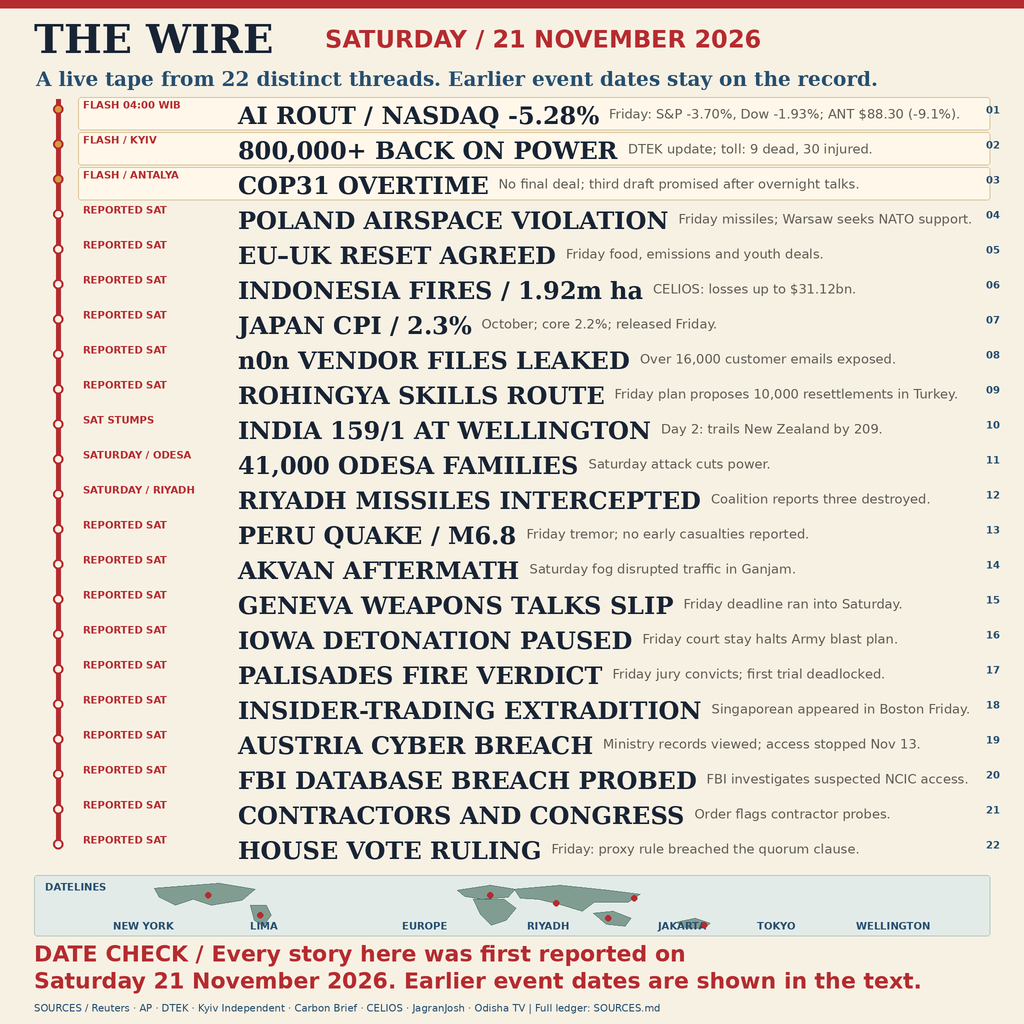
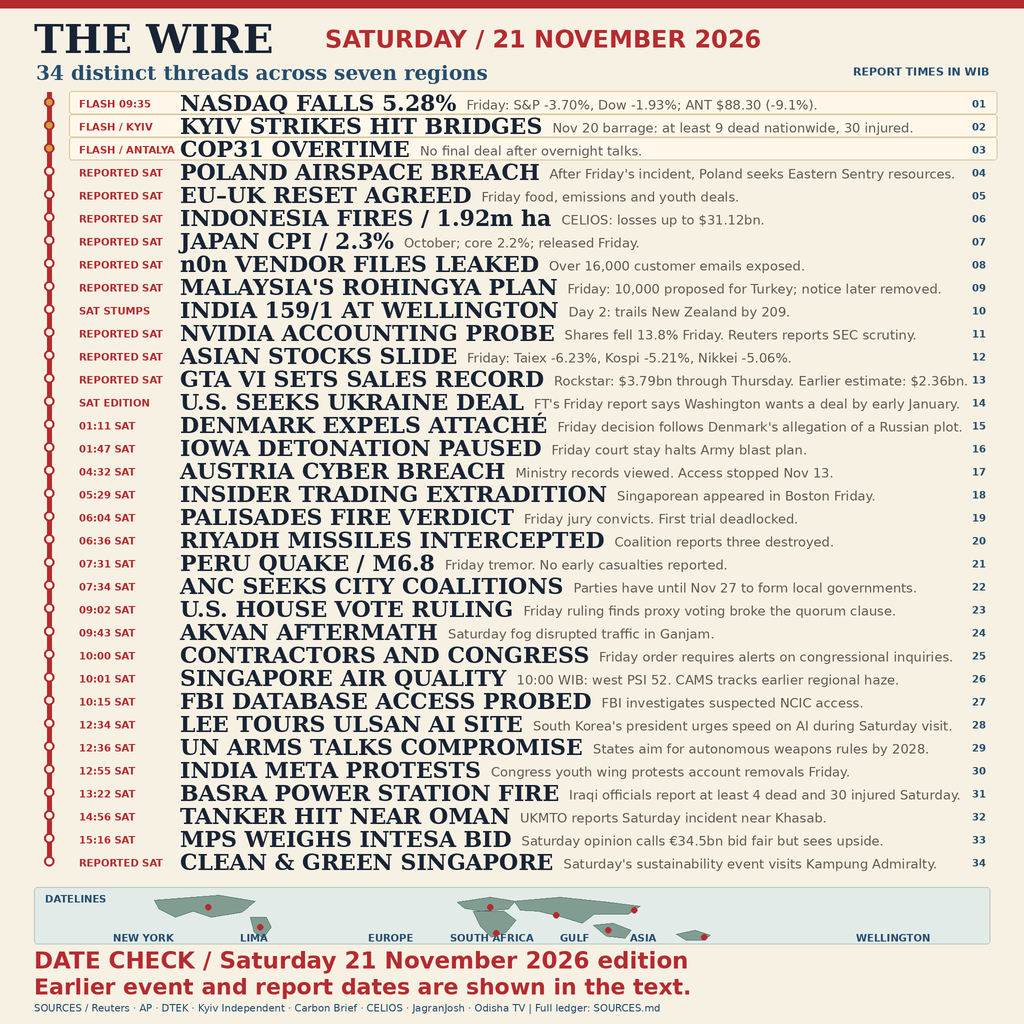
R5: expand THE WIRE to 34 distinct threads

diff --git a/render.py b/render.py
@@ -26,55 +26,68 @@ def main():
     d.rectangle((0,0,W*S,8*S),fill=red)
     t(d,(34,15),"THE WIRE",font("serifb",40),ink)
     t(d,(325,25),"SATURDAY / 21 NOVEMBER 2026",font("sansb",24),red)
-    t(d,(36,67),"A live tape from 22 distinct threads. Earlier event dates stay on the record.",font("serifb",20),blue)
+    t(d,(36,61),"34 distinct threads across seven regions",font("serifb",20),blue)
+    t(d,(989,65),"REPORT TIMES IN WIB",font("sansb",11),blue,anchor="ra")
 
     stories=[
-        ("FLASH 04:00 WIB","AI ROUT / NASDAQ -5.28%","Friday: S&P -3.70%, Dow -1.93%; ANT $88.30 (-9.1%).","Reuters / AP"),
-        ("FLASH / KYIV","800,000+ BACK ON POWER","DTEK update; toll: 9 dead, 30 injured.","DTEK / Kyiv Independent"),
-        ("FLASH / ANTALYA","COP31 OVERTIME","No final deal; third draft promised after overnight talks.","AP / Carbon Brief"),
-        ("REPORTED SAT","POLAND AIRSPACE VIOLATION","Friday missiles; Warsaw seeks NATO support.","AP / NATO"),
+        ("FLASH 09:35","NASDAQ FALLS 5.28%","Friday: S&P -3.70%, Dow -1.93%; ANT $88.30 (-9.1%).","Reuters / AP"),
+        ("FLASH / KYIV","KYIV STRIKES HIT BRIDGES","Nov 20 barrage: at least 9 dead nationwide, 30 injured.","Kyiv Independent"),
+        ("FLASH / ANTALYA","COP31 OVERTIME","No final deal after overnight talks.","AP / Carbon Brief"),
+        ("REPORTED SAT","POLAND AIRSPACE BREACH","After Friday's incident, Poland seeks Eastern Sentry resources.","AP / NATO"),
         ("REPORTED SAT","EU–UK RESET AGREED","Friday food, emissions and youth deals.","Reuters / Euronext"),
         ("REPORTED SAT","INDONESIA FIRES / 1.92m ha","CELIOS: losses up to $31.12bn.","CELIOS"),
         ("REPORTED SAT","JAPAN CPI / 2.3%","October; core 2.2%; released Friday.","Reuters"),
         ("REPORTED SAT","n0n VENDOR FILES LEAKED","Over 16,000 customer emails exposed.","Reuters"),
-        ("REPORTED SAT","ROHINGYA SKILLS ROUTE","Friday plan proposes 10,000 resettlements in Turkey.","Reuters"),
+        ("REPORTED SAT","MALAYSIA'S ROHINGYA PLAN","Friday: 10,000 proposed for Turkey; notice later removed.","Reuters"),
         ("SAT STUMPS","INDIA 159/1 AT WELLINGTON","Day 2: trails New Zealand by 209.","JagranJosh"),
-        ("SATURDAY / ODESA","41,000 ODESA FAMILIES","Saturday attack cuts power.","DTEK"),
-        ("SATURDAY / RIYADH","RIYADH MISSILES INTERCEPTED","Coalition reports three destroyed.","Reuters"),
-        ("REPORTED SAT","PERU QUAKE / M6.8","Friday tremor; no early casualties reported.","Reuters / Peru Geophysical Institute"),
-        ("REPORTED SAT","AKVAN AFTERMATH","Saturday fog disrupted traffic in Ganjam.","Odisha TV"),
-        ("REPORTED SAT","GENEVA WEAPONS TALKS SLIP","Friday deadline ran into Saturday.","Reuters"),
-        ("REPORTED SAT","IOWA DETONATION PAUSED","Friday court stay halts Army blast plan.","AP"),
-        ("REPORTED SAT","PALISADES FIRE VERDICT","Friday jury convicts; first trial deadlocked.","AP"),
-        ("REPORTED SAT","INSIDER-TRADING EXTRADITION","Singaporean appeared in Boston Friday.","Reuters / US Department of Justice"),
-        ("REPORTED SAT","AUSTRIA CYBER BREACH","Ministry records viewed; access stopped Nov 13.","Reuters / Austrian Foreign Ministry"),
-        ("REPORTED SAT","FBI DATABASE BREACH PROBED","FBI investigates suspected NCIC access.","Reuters citing CNN"),
-        ("REPORTED SAT","CONTRACTORS AND CONGRESS","Order flags contractor probes.","Reuters / White House"),
-        ("REPORTED SAT","HOUSE VOTE RULING","Friday: proxy rule breached the quorum clause.","Reuters / Fifth Circuit")
+        ("REPORTED SAT","NVIDIA ACCOUNTING PROBE","Shares fell 13.8% Friday. Reuters reports SEC scrutiny.","Reuters"),
+        ("REPORTED SAT","ASIAN STOCKS SLIDE","Friday: Taiex -6.23%, Kospi -5.21%, Nikkei -5.06%.","Around Prague / CNBC"),
+        ("REPORTED SAT","GTA VI SETS SALES RECORD","Rockstar: $3.79bn through Thursday. Earlier estimate: $2.36bn.","AP / Sensor Tower"),
+        ("SAT EDITION","U.S. SEEKS UKRAINE DEAL","FT's Friday report says Washington wants a deal by early January.","Financial Times"),
+        ("01:11 SAT","DENMARK EXPELS ATTACHÉ","Friday decision follows Denmark's allegation of a Russian plot.","Reuters"),
+        ("01:47 SAT","IOWA DETONATION PAUSED","Friday court stay halts Army blast plan.","AP"),
+        ("04:32 SAT","AUSTRIA CYBER BREACH","Ministry records viewed. Access stopped Nov 13.","Reuters / Austrian Foreign Ministry"),
+        ("05:29 SAT","INSIDER TRADING EXTRADITION","Singaporean appeared in Boston Friday.","Reuters / US Department of Justice"),
+        ("06:04 SAT","PALISADES FIRE VERDICT","Friday jury convicts. First trial deadlocked.","AP"),
+        ("06:36 SAT","RIYADH MISSILES INTERCEPTED","Coalition reports three destroyed.","Reuters"),
+        ("07:31 SAT","PERU QUAKE / M6.8","Friday tremor. No early casualties reported.","Reuters / Peru Geophysical Institute"),
+        ("07:34 SAT","ANC SEEKS CITY COALITIONS","Parties have until Nov 27 to form local governments.","BBC"),
+        ("09:02 SAT","U.S. HOUSE VOTE RULING","Friday ruling finds proxy voting broke the quorum clause.","Reuters / Fifth Circuit"),
+        ("09:43 SAT","AKVAN AFTERMATH","Saturday fog disrupted traffic in Ganjam.","Odisha TV"),
+        ("10:00 SAT","CONTRACTORS AND CONGRESS","Friday order requires alerts on congressional inquiries.","Reuters / White House"),
+        ("10:01 SAT","SINGAPORE AIR QUALITY","10:00 WIB: west PSI 52. CAMS tracks earlier regional haze.","Singapore NEA / Copernicus"),
+        ("10:15 SAT","FBI DATABASE ACCESS PROBED","FBI investigates suspected NCIC access.","Reuters citing CNN"),
+        ("12:34 SAT","LEE TOURS ULSAN AI SITE","South Korea's president urges speed on AI during Saturday visit.","Reuters"),
+        ("12:36 SAT","UN ARMS TALKS COMPROMISE","States aim for autonomous weapons rules by 2028.","Reuters"),
+        ("12:55 SAT","INDIA META PROTESTS","Congress youth wing protests account removals Friday.","Reuters"),
+        ("13:22 SAT","BASRA POWER STATION FIRE","Iraqi officials report at least 4 dead and 30 injured Saturday.","Reuters"),
+        ("14:56 SAT","TANKER HIT NEAR OMAN","UKMTO reports Saturday incident near Khasab.","UKMTO / Reuters"),
+        ("15:16 SAT","MPS WEIGHS INTESA BID","Saturday opinion calls €34.5bn bid fair but sees upside.","Reuters / MPS"),
+        ("REPORTED SAT","CLEAN & GREEN SINGAPORE","Saturday's sustainability event visits Kampung Admiralty.","Singapore NEA"),
     ]
-    assert len(stories)==22
-    top=99; step=35; spine_x=58
+    assert len(stories)==34
+    top=92; step=23; spine_x=49
     d.line((spine_x*S,top*S,spine_x*S,(top+(len(stories)-1)*step+13)*S),fill=red,width=5*S)
     for i,(stamp,head,body,src) in enumerate(stories):
         y=top+i*step
-        if i<3: box(d,(78,y-2,990,y+31),(255,248,234),outline=(220,196,155),width=1,r=3)
+        if i<3: box(d,(69,y-1,997,y+22),(255,248,234),outline=(220,196,155),width=1,r=3)
         d.ellipse(((spine_x-5)*S,(y+5)*S,(spine_x+5)*S,(y+15)*S),fill=gold if i<3 else paper,outline=red,width=2*S)
-        t(d,(83,y),stamp,font("sansb",10),red)
-        hf=font("serifb",24)
+        t(d,(79,y+6),stamp,font("sansb",10),red)
+        hf=font("serifb",22)
         hbox=d.textbbox((0,0),head,font=hf)
         assert hbox[2] <= 742*S, (head,hbox[2]/S)
-        title_x=238
-        t(d,(title_x,y+2),head,hf,ink)
+        title_x=180
+        t(d,(title_x,y-2),head,hf,ink)
         bf=font("sans",13)
         bbox=d.textbbox((0,0),body,font=bf)
         body_x=title_x+hbox[2]/S+10
         # Keep a clear gutter for the right-edge tape index.
         assert body_x+bbox[2]/S <= 980, (head,body,body_x+bbox[2]/S)
-        t(d,(body_x,y+7),body,bf,muted)
-        t(d,(1000,y+5),str(i+1).zfill(2),font("sansb",10),blue,anchor="ra")
+        t(d,(body_x,y+5),body,bf,muted)
+        t(d,(986,y+6),str(i+1).zfill(2),font("sansb",10),blue,anchor="ra")
 
     # Small world map strip anchoring the wire's datelines.
-    y=875; map_x=34; box(d,(map_x,y,990,y+61),sea,outline=(185,201,195),width=1,r=3)
+    y=887; map_x=34; box(d,(map_x,y,990,y+57),sea,outline=(185,201,195),width=1,r=3)
     t(d,(45,y+6),"DATELINES",font("sansb",10),blue)
     land=(129,157,145); coast=(67,103,94)
     shapes=[[(120,13),(185,8),(221,14),(208,25),(177,30),(159,24),(141,30),(125,22)],
@@ -86,14 +99,14 @@ def main():
       [(642,47),(661,43),(676,48),(670,53),(652,53)]]
     for poly in shapes:
         d.polygon([((map_x+px)*S,(y+py)*S) for px,py in poly],fill=land,outline=coast)
-    labels=[("NEW YORK",113),("LIMA",250),("EUROPE",402),("RIYADH",527),("JAKARTA",658),("TOKYO",757),("WELLINGTON",856)]
+    labels=[("NEW YORK",113),("LIMA",240),("EUROPE",368),("SOUTH AFRICA",450),("GULF",560),("ASIA",630),("WELLINGTON",856)]
     for name,lx in labels:
         t(d,(lx,y+45),name,font("sansb",10),blue)
-    for px,py in [(174,20),(226,40),(456,20),(522,28),(574,43),(600,23),(670,50)]:
+    for px,py in [(174,20),(226,40),(456,20),(462,46),(522,28),(574,43),(600,23),(670,50)]:
         d.ellipse(((map_x+px-3)*S,(y+py-3)*S,(map_x+px+3)*S,(y+py+3)*S),fill=red)
 
-    t(d,(34,941),"DATE CHECK / Every story here was first reported on",font("sansb",22),red)
-    t(d,(34,968),"Saturday 21 November 2026. Earlier event dates are shown in the text.",font("sansb",22),red)
+    t(d,(34,947),"DATE CHECK / Saturday 21 November 2026 edition",font("sansb",23),red)
+    t(d,(34,974),"Earlier event and report dates are shown in the text.",font("sansb",22),red)
     t(d,(34,1002),"SOURCES / Reuters · AP · DTEK · Kyiv Independent · Carbon Brief · CELIOS · JagranJosh · Odisha TV | Full ledger: SOURCES.md",font("sans",10),blue)
     im.resize((W,H),Image.Resampling.LANCZOS).save("assets/entry.png",format="PNG",optimize=True)
 

diff --git a/SOURCES.md b/SOURCES.md
@@ -1,6 +1,6 @@
 # Sources ledger
 
-All stories are dated Saturday 21 November 2026 or first reported that day. The renderer uses the verified ledger in `news-image-20261121-analysis.md`.
+The 21 November 2026 edition includes Saturday reports and earlier developments. Timed stamps refer to the listed report or data release in Western Indonesian Time (UTC+7). The R5 notes below distinguish earlier source dates and superseded entries.
 
 1. Reuters/AP market wrap: Nasdaq 22,617.73, -5.28%; S&P 6,910.39, -3.70%; Dow 48,147.33, -1.93%.
 2. AP/Reuters market reports: Anthropic ANT close $88.30, -9.1%; IPO completed Friday.
@@ -8,7 +8,7 @@ All stories are dated Saturday 21 November 2026 or first reported that day. The 
 4. DTEK/AP: 800,000+ Kyiv residents restored to power Saturday.
 5. Kyiv Independent: 9 killed nationwide (7 Kyiv, 2 elsewhere), 30 injured.
 6. DTEK regional report: Odesa attack leaves 41,000 families without power.
-7. AP: European leaders move toward frozen Russian assets for Ukraine.
+7. Excluded in R5. The [AP report cited for European leaders moving to use frozen Russian assets](https://apnews.com/article/fe589dd9e12368d071fdfedf8819c15e) dates to October 2025. The [19 November 2026 Berlin statement](https://www.president.gov.ua/en/news/spilna-zayava-lideriv-nimechchini-franciyi-velikoyi-britaniy-107409) says the assets remain frozen until Russia ends the war and compensates Ukraine. It does not establish the claimed Saturday move.
 8. AP/europesays: Polish missile and suspected drone falls; nobody hurt.
 9. NATO: Mark Rutte calls Polish airspace violation grave.
 10. AP/Health Policy Watch: COP31 overtime, no final agreement Saturday morning.
@@ -40,6 +40,23 @@ All stories are dated Saturday 21 November 2026 or first reported that day. The 
 36. [Reuters, FBI's criminal information database hacked, CNN reports](https://www.reuters.com/world/us/fbis-criminal-information-database-hacked-cnn-reports-2026-11-21/), published 21 Nov 03:15 UTC / 10:15 WIB: Reuters reported CNN's account that the FBI was investigating suspected access to the National Crime Information Center; CNN cited two people briefed on the investigation.
 37. [Reuters, Trump order says contractors must notify White House of congressional probes](https://www.reuters.com/world/trump-order-says-contractors-must-notify-white-house-congressional-probes-2026-11-21/), published 21 Nov 03:00 UTC / 10:00 WIB: the Friday order directs federal contractors to alert the White House to congressional requests about their executive-branch work.
 38. [Reuters, US House unconstitutionally passed spending bill in 2022, court rules](https://www.reuters.com/legal/government/us-house-unconstitutionally-passed-spending-bill-2022-court-rules-2026-11-21/), published 21 Nov 02:02 UTC / 09:02 WIB: a 5th Circuit panel ruled Friday that proxy voting violated the quorum clause; the injunction's relief was limited to one provision.
+39. [Reuters, Nvidia accounting investigation](https://www.reuters.com/world/us-secs-nvidia-probe-is-examining-potential-accounting-issues-sources-say-2026-11-20/) and [Reuters market close via Moneycontrol](https://www.moneycontrol.com/news/business/stocks/wall-street-ends-sharply-lower-on-ai-selloff-s-p-500-dow-in-correction-14085938.html), the latter posted Saturday at 08:05 IST / 09:35 WIB. The Friday close was down 13.8%. The standalone SEC report quotes people briefed on the probe.
+40. [Around Prague, Saturday market recap](https://aroundprague.cz/en/news/us/why-is-nvidia-stock-down-ai-spending-doubts-and-a-ceo-exit-fuel-a-long-slide) and [Inside Desk, Friday closes](https://benjaminkoch.info/insidedesk/2026/11/20/minus-5-in-tokyo-minus-6-in-taipei-asia-sells-the.html). Taiwan's Taiex fell 6.23%, South Korea's Kospi 5.21% and Japan's Nikkei 5.06% on Friday.
+41. [Singapore NEA, 21 November PSI observations](https://api.data.gov.sg/v1/environment/psi?date_time=2026-11-21T11:00:00). The western region's reading was 52 at 11:00 SGT / 10:00 WIB, posted a minute later. [Copernicus CAMS, earlier regional haze and fire emissions](https://atmosphere.copernicus.eu/el-nino-intensifies-fires-southeast-asia-smoke-impacts-health-across-borders) supplies regional context from earlier in the week. This bulletin tracks Singapore air quality, separate from the Indonesian economic loss estimate.
+42. [AP, Rockstar's launch sales and the earlier Sensor Tower estimate](https://apnews.com/article/15c69f76548ab5659bc3fe44a69756d8). Rockstar put worldwide retail sales at $3.79 billion through Thursday. Sensor Tower had estimated $2.36 billion and roughly 24.6 million units.
+43. [Financial Times, U.S. seeks Ukraine peace deal](https://www.ft.com/content/6c1b8a64-35f9-4aba-8605-45a4abdce6b8), published Friday 20 November 16:17 UTC / 23:17 WIB. Four people briefed on the discussions said the U.S. wants the parties to reach a deal by early January. This is a reported target, with no agreement announced in the report.
+44. [Reuters, Denmark expels Russian defence attaché](https://www.reuters.com/world/europe/two-danes-suspected-being-hired-by-russia-kill-us-ukrainian-rapper-2026-11-20/), 21 Nov 01:11 WIB based on 18:11 UTC, and [Wall Street Journal's Saturday report](https://www.wsj.com/world/europe/denmark-accuses-russia-of-trying-to-kill-ukrainian-rapper-a3a5e34c), 21 Nov 00:39 UTC. Denmark announced the expulsion on Friday after attributing the alleged plot to Russian intelligence.
+45. [BBC, ANC seeks deals in South African cities](https://www.bbc.co.uk/news/articles/cqpv94d10rwpo), [Saturday BBC feed copy](https://situation.mto.sh/read/62068391), 00:34 UTC / 07:34 WIB. Parties have until 27 November to form local governments.
+46. [Reuters, Lee visits Ulsan AI data centre construction site](https://www.reuters.com/business/media-telecom/south-koreas-lee-says-speed-is-vital-ai-race-data-centre-visit-2026-11-21/), Saturday 05:34 UTC / 12:34 WIB. The president urged speed in the AI race during the visit.
+47. [Reuters, Geneva talks reach a compromise](https://www.reuters.com/world/states-agree-to-un-talks-aiming-regulate-killer-robots-by-2028-2026-11-21/), Saturday 05:36 UTC / 12:36 WIB. States agreed to pursue rules by 2028. The terms leave the question of legally binding measures open. This replaces the deadline bulletin.
+48. [Reuters, protests at Meta's India offices](https://www.reuters.com/world/asia-pacific/metas-india-offices-hit-by-opposition-protests-over-account-removals-2026-11-21/), Saturday 05:55 UTC / 12:55 WIB. The opposition Congress party's youth wing protested Friday over removed Instagram accounts.
+49. [Reuters, Basra power station fire](https://www.reuters.com/business/energy/iraq-fire-basra-power-station-kills-least-four-injures-30-2026-11-21/), Saturday 06:22 UTC / 13:22 WIB. Security officials reported at least four dead and 30 injured.
+50. [UKMTO, Saturday maritime report](https://www.ukmto.org/-/media/ukmto/products/20261121-ukmto_warning_215-26.pdf?rev=9a51d7f51b3e4047b893b96473750588), covered by [Reuters via StreetInsider](https://new.streetinsider.com/Reuters/Two%2Btanker%2Battack%2Bincidents%2Breported%2Bnear%2BOmans%2BKhasab%2Bon%2BSaturday%2C%2BUKMTO%2Bsays/27382874.html) at 07:56 UTC / 14:56 WIB. A tanker was hit near Khasab, Oman.
+51. [Reuters, Monte dei Paschi board opinion](https://www.reuters.com/business/finance/intesa-launches-cash-share-offer-monte-dei-paschi-mps-says-2026-11-21/), Saturday 08:16 UTC / 15:16 WIB, and [MPS's 21 November release](https://gruppomps.it/static/upload/cs-/cs-pubblicazione-comunicato-dell-emittente_rq.pdf). The board considers Intesa's €34.5 billion offer fair at current values while saying it falls short of MPS's prospective value.
+52. [Singapore National Environment Agency, Clean & Green Singapore Day](https://www.nea.gov.sg/media/news/news/index/clean-green-singapore-day-2026-making-sustainability-part-of-everyday-life), released Saturday. The sustainability event took place at Kampung Admiralty and Woodlands Galaxy Community Club.
+53. [Kyiv Independent, Kyiv bridge strikes and nationwide toll](https://kyivindependent.com/russia-launches-mass-missile-attack-against-ukraine-after-putin-vows-revenge/). The 20 November barrage killed at least nine nationwide and injured 30. The earlier AP restoration figure in rows 4 and 25 is excluded in R5 because the matching dispatch is from 2025. The AP report matching the 41,000 Odesa figure in rows 6 and 24 is [dated 15 November 2026](https://apnews.com/article/b139307f0d3ed0f7d0b222c08c30a4a1), so that bulletin is also excluded.
+54. [Reuters via AsiaOne, Malaysia's Rohingya announcement and removal](https://www.asiaone.com/malaysia/malaysia-removes-post-announcing-plan-resettle-10000-rohingya-turkey), published Saturday. Malaysia announced the plan Friday and the notice was later removed.
+55. [ISW, Poland's Eastern Sentry request](https://understandingwar.org/research/russia-ukraine/russian-offensive-campaign-assessment-november-20-2026/) records Poland's intent to seek additional Eastern Sentry resources. [AP via Khaosod](https://www.khaosodenglish.com/news/crimecourtscalamity/2026/11/21/russian-missiles-land-in-poland-as-europe-held-military-drills-nearby-nato-calls-it-a-violation/) carried the Friday airspace incident at 10:39 WIB Saturday.
 
 Sources named on image: Reuters, AP, AFP, BBC, DTEK, UN News, Kyiv Independent, Carbon Brief, Health Policy Watch, CELIOS, Copernicus, Sensor Tower.
 
@@ -59,7 +76,7 @@ Eastern Sentry follow-up, and the Wellington cricket reports. Earlier casualty
 figures in the Kyiv FLASH are the nationwide barrage toll, not Saturday deaths.
 
 The Jakarta report uses CELIOS's 1.92m hectares burned and losses up to $31.12bn.
-The >5,250 deaths / ~400,000 infections claim is not substantiated in this
+The earlier smoke mortality and infections figures are not substantiated in this
 ledger and is removed from the image. GTA VI, Odisha aftermath and the
 undated frozen-assets brief are omitted. The sources actually printed in R2
 are Reuters, AP, DTEK, Kyiv Independent, Carbon Brief, CELIOS and JagranJosh.
